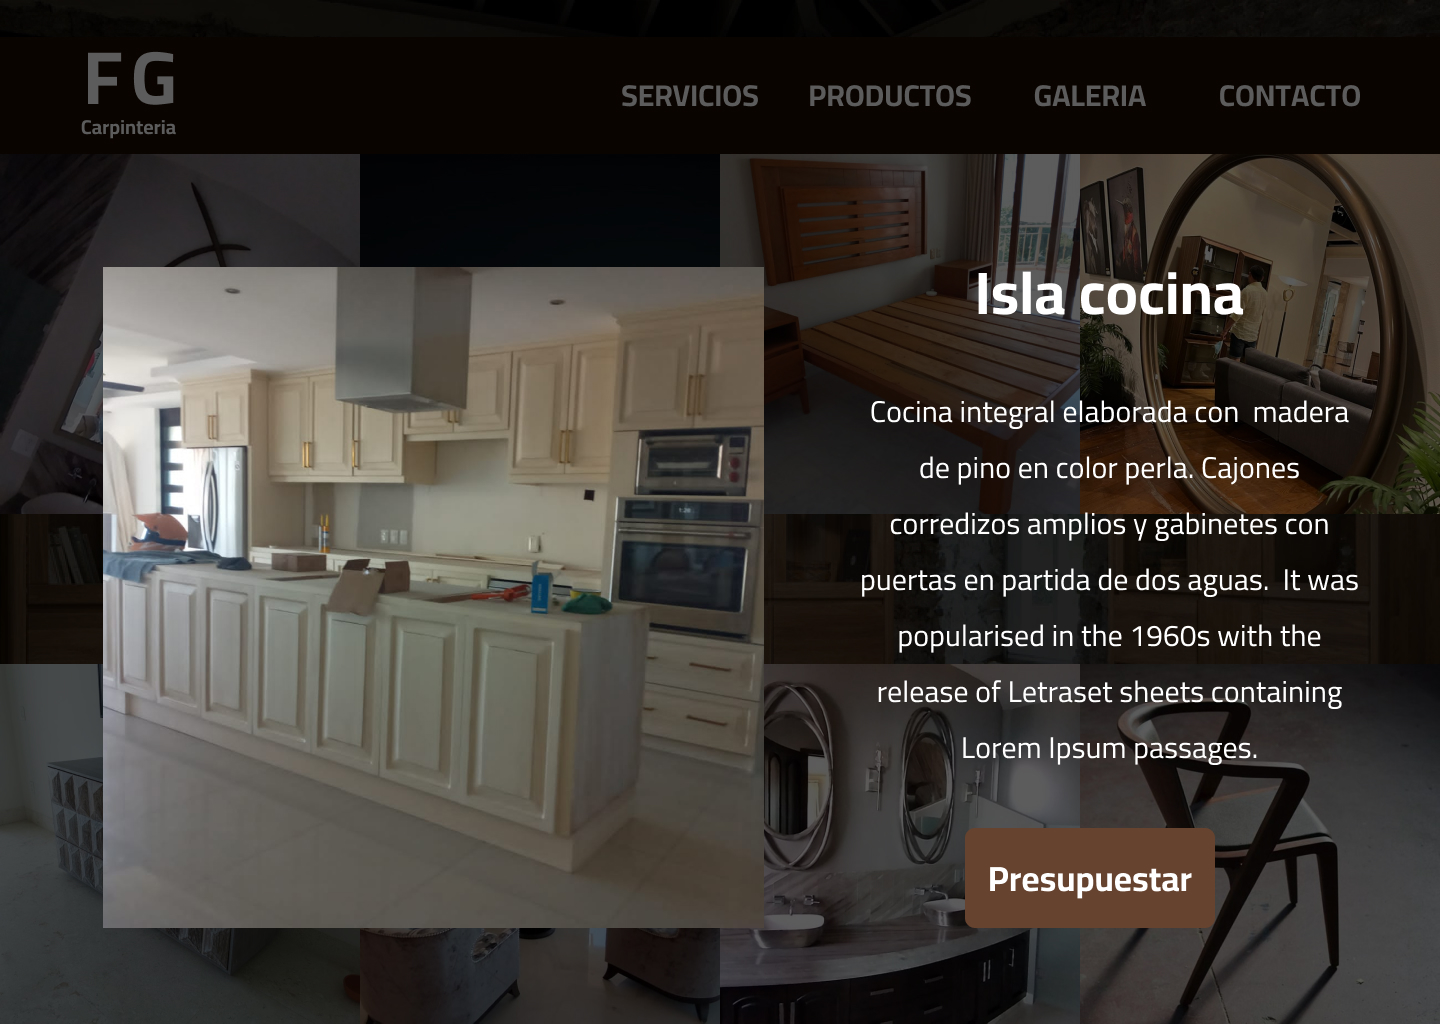
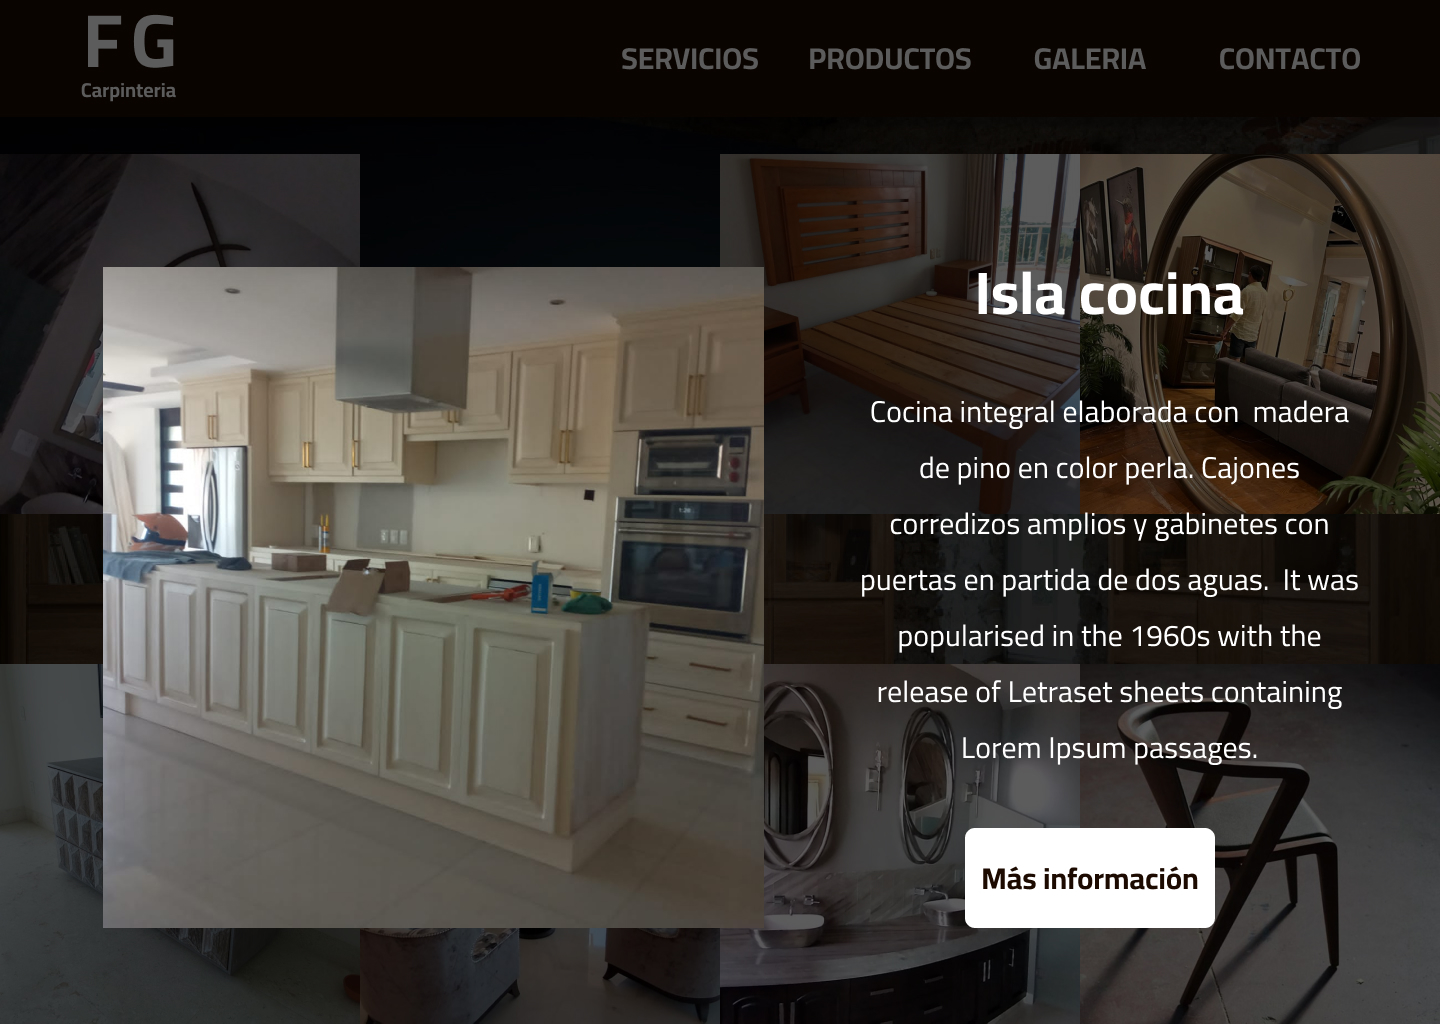
fix main section

diff --git a/index.html b/index.html
@@ -13,7 +13,7 @@
   <body>
     <nav class="navbar">
       <div class="brand-title">
-        <a href="/">FG-CARPINTERIA</a>
+        <a href="/"><img src="./assets/logo.png" alt="logo.png" /></a>
       </div>
       <div class="toggle-button">
         <span class="bar"></span>
@@ -23,11 +23,11 @@
       <div class="navbar-links">
         <ul class="navbar-item">
           <li>
-            <a href="#productos-y-servicios">PRODUCTOS</a>
+            <a href="#productos-y-servicios">PRODUCTOS Y SERVICIOS</a>
           </li>
-          <li>
+          <!-- <li>
             <a href="#productos-y-servicios">SERVICIOS</a>
-          </li>
+          </li> -->
           <li>
             <a href="#productos-y-servicios">GALERIA</a>
           </li>
@@ -40,22 +40,24 @@
 
     <main>
       <div class="main-contain">
-        <div class="main-section">
-          <h1>MUEBLES DE CALIDAD</h1>
-          <p>
-            Lorem, ipsum dolor sit amet consectetur adipisicing elit. Magnam
-            architecto doloremque obcaecati provident corporis saepe alias, quo
-            cumque neque dolor voluptatibus nam enim unde perspiciatis aut
-            minima, inventore, doloribus vitae?
-          </p>
-          <button>CONTACTANOS</button>
+        <div class="main">
+          <div class="main-section">
+            <h1>TU CARPINTERIA DE CONFIANZA</h1>
+            <p>
+              Lorem, ipsum dolor sit amet consectetur adipisicing elit. Magnam
+              architecto doloremque obcaecati provident corporis saepe alias,
+              quo cumque neque dolor voluptatibus nam enim unde perspiciatis aut
+              minima, inventore, doloribus vitae?
+            </p>
+            <a href="#contacto">CONTACTANOS</a>
+          </div>
         </div>
       </div>
     </main>
     <!-- Productos y servicios -->
     <section id="productos-y-servicios" class="servicios">
       <img class="bg-servicios" src="./assets/img/baño.JPG" alt="" />
-      <img class="bg-servicios" src="./assets/img/bg_servicios.svg" alt="" />
+      <!-- <img class="bg-servicios" src="./assets/img/bg_servicios.svg" alt="" /> -->
       <div class="servicios-contain">
         <div class="servicios-productos">
           <div class="servicios-list">

diff --git a/styles/main.css b/styles/main.css
@@ -5,23 +5,45 @@ main {
   background-repeat: no-repeat;
 }
 .main-contain {
-  padding: 10% 5%;
   text-align: center;
   color: white;
   position: relative;
+  width: 100%;
+  height: 100vh;
+  background-image: url("./../assets/Ellipse.png");
+  background-size: contain;
+  background-position: right;
+  background-repeat: no-repeat;
+}
+.main {
+  width: 100%;
+  height: 100%;
+  align-items: center;
+  position: relative;
 }
 .main-section {
-  width: 30%;
   position: absolute;
-  right: 5%;
-  gap: 20px;
-  text-shadow: 1px 1px 8px black;
+  right: 0;
+  width: 50%;
+  height: 100%;
+  display: flex;
+  flex-direction: column;
+  align-items: center;
+  justify-content: center;
+}
+.main-section h1 {
+  margin: 0 5%;
+  font-size: 3rem;
+  text-shadow: 4px 4px 10px black;
 }
 .main-section p {
   font-size: 1.3rem;
   font-weight: bold;
+  margin: 2% 10%;
+  text-shadow: 4px 4px 10px black;
 }
-.main-section button {
+.main-section a {
+  text-decoration: none;
   border: none;
   border-radius: 10px;
   padding: 10px 20px;
@@ -32,9 +54,29 @@ main {
   background-color: #1c0a00;
   transition: 0.6s;
 }
-.main-contain button:hover {
+.main-contain a:hover {
   color: #000;
   background-color: white;
-  padding: 13px 25px;
+  /* padding: 13px 25px; */
   transition: 0.6s;
+}
+
+@media (max-width: 768px) {
+  .main-contain {
+    background-size: cover;
+    background-position-x: 100px;
+  }
+  .main-section {
+    width: 100%;
+    justify-content: flex-end;
+    padding-bottom: 2rem;
+  }
+  .main-section h1 {
+    margin: 0 2%;
+    font-size: 2rem;
+  }
+  .main-section p {
+    font-size: 1rem;
+    margin: 1% 5% 5%;
+  }
 }

diff --git a/styles/navbar.css b/styles/navbar.css
@@ -8,8 +8,9 @@
   justify-content: space-between;
   z-index: 10;
   color: white;
-  padding: 2%;
+  padding: 1% 2%;
   transition: 0.6s;
+  margin: 0;
 }
 .brand-title {
   font-size: 1.5rem;
@@ -18,8 +19,14 @@
 .brand-title a {
   text-decoration: none;
   color: white;
+  display: flex;
+  align-items: center;
+  gap: 20px;
 }
-
+.brand-title a img {
+  width: 4rem;
+  transition: 0.6s;
+}
 .navbar-links ul {
   margin: 0;
   padding: 0;
@@ -44,13 +51,13 @@
 
 .toggle-button {
   position: absolute;
-  top: 1.3rem;
+  top: 1.5rem;
   right: 1rem;
   display: none;
   flex-direction: column;
   justify-content: space-between;
   width: 30px;
-  height: 21px;
+  height: 20px;
 }
 .toggle-button .bar {
   height: 3px;
@@ -58,11 +65,15 @@
   background-color: white;
   border-radius: 10px;
 }
-
 .sticky {
   background-color: #1c0a00;
   transition: 0.6s;
-  padding: 0.5%;
+  padding: 0.5% 1%;
+}
+.sticky .brand-title a img {
+  text-align: center;
+  width: 50px;
+  transition: 0.6s;
 }
 
 @media (max-width: 768px) {
@@ -90,5 +101,9 @@
   }
   .navbar-links.active {
     display: flex;
+  }
+  .sticky {
+    transition: 0.6s;
+    padding: 1%;
   }
 }

diff --git a/index.css b/index.css
@@ -1,7 +1,4 @@
-@font-face {
-  font-family: cairo;
-  src: url("./assets/fonts/Cairo/Cairo-VariableFont_wght.ttf");
-}
+@import url("https://fonts.googleapis.com/css2?family=Cairo:wght@200;300;400;500;600;700;800;900&display=swap");
 * {
   box-sizing: border-box;
   font-family: cairo, Arial, Helvetica, sans-serif;
@@ -9,4 +6,5 @@
 body {
   margin: 0;
   padding: 0;
+  font-size: 18px;
 }
